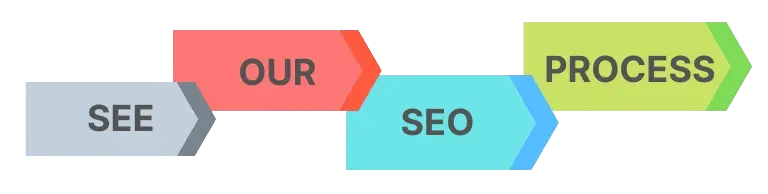
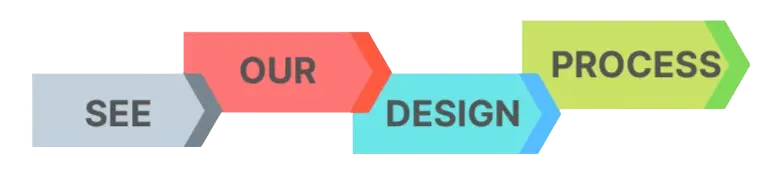
update

Changed region(s): [[0.0312, 0.1143, 1.0, 0.8857]]

diff --git a/index.html b/index.html
@@ -8,7 +8,7 @@
   function gtag(){dataLayer.push(arguments);}
   gtag('js', new Date());
 
-  gtag('config', 'G-XBBE1XGXXQ');
+  gtag('config', 'G-TZRSZN48YF');
 </script>
     <meta charset='utf-8'>
     <meta name='viewport' content='width=device-width, initial-scale=1, maximum-scale=2.5'>
@@ -22,7 +22,7 @@
     <link rel="preload" href="asset/images/pattern-back-dark.webp" as="image" type="image/webp">
     <link rel="preload" href="asset/images/tag.webp" as="image" type="image/webp">
     <link rel="stylesheet" type="text/css" href="asset/index.css">
-    <title>SEO solution</title>
+    <title>Automation solution</title>
   </head>
   <body>
     <header>
@@ -60,7 +60,7 @@
            <svg xmlns="http://www.w3.org/2000/svg" width="30" height="30" fill="grey" class="bi bi-diagram-3-fill" viewBox="0 0 16 16">
              <path fill-rule="evenodd" d="M6 3.5A1.5 1.5 0 0 1 7.5 2h1A1.5 1.5 0 0 1 10 3.5v1A1.5 1.5 0 0 1 8.5 6v1H14a.5.5 0 0 1 .5.5v1a.5.5 0 0 1-1 0V8h-5v.5a.5.5 0 0 1-1 0V8h-5v.5a.5.5 0 0 1-1 0v-1A.5.5 0 0 1 2 7h5.5V6A1.5 1.5 0 0 1 6 4.5zm-6 8A1.5 1.5 0 0 1 1.5 10h1A1.5 1.5 0 0 1 4 11.5v1A1.5 1.5 0 0 1 2.5 14h-1A1.5 1.5 0 0 1 0 12.5zm6 0A1.5 1.5 0 0 1 7.5 10h1a1.5 1.5 0 0 1 1.5 1.5v1A1.5 1.5 0 0 1 8.5 14h-1A1.5 1.5 0 0 1 6 12.5zm6 0a1.5 1.5 0 0 1 1.5-1.5h1a1.5 1.5 0 0 1 1.5 1.5v1a1.5 1.5 0 0 1-1.5 1.5h-1a1.5 1.5 0 0 1-1.5-1.5z"/>
            </svg>                    
-           <span class="link-text"> Our SEO Process </span>
+           <span class="link-text"> Our Design Process </span>
           </a>
           <a href="https://docs.google.com/forms/d/e/1FAIpQLSdrn86eggpVSwn5MV3Kk9Lzuq3xdfX2R49CrZeNwU_V7ceE2A/viewform?usp=sf_link">
             <svg xmlns="http://www.w3.org/2000/svg" width="30" height="30" fill="grey" class="bi bi-bag-dash-fill" viewBox="0 0 16 16">
@@ -85,7 +85,7 @@
     
     <div class="text-center pattern-back">
       <h3> 
-       <p class="tailored"> Tailored <span class="service">SEO</span> for long-term success </p> <br>
+       <p class="tailored"> Tailored <span class="service">Automation</span> for long-term success </p> <br>
        <img class="tag" src="asset/images/tag.webp" />
       </h3>
       <div class="action">
@@ -98,7 +98,7 @@
           <path d="M8 2a5.53 5.53 0 0 0-3.594 1.342c-.766.66-1.321 1.52-1.464 2.383C1.266 6.095 0 7.555 0 9.318 0 11.366 1.708 13 3.781 13h8.906C14.502 13 16 11.57 16 9.773c0-1.636-1.242-2.969-2.834-3.194C12.923 3.999 10.69 2 8 2m2.354 4.854-3 3a.5.5 0 0 1-.708 0l-1.5-1.5a.5.5 0 1 1 .708-.708L7 8.793l2.646-2.647a.5.5 0 0 1 .708.708"/>
          </svg>
          <span class="just">
-         The right SEO solution for your business.
+         The right Automation solution for your business.
          </span>
        </span>
       </div>
@@ -129,7 +129,7 @@
           <img src="asset/images/blue-process.webp" class="blue-img" />
         </div>
         <a href="pages/process.html">
-         see our SEO process
+         see our Automation process
          <svg xmlns="http://www.w3.org/2000/svg" width="28" height="28" fill="currentColor" class="bi bi-box-arrow-up-right" viewBox="0 0 16 16">
           <path fill-rule="evenodd" d="M8.636 3.5a.5.5 0 0 0-.5-.5H1.5A1.5 1.5 0 0 0 0 4.5v10A1.5 1.5 0 0 0 1.5 16h10a1.5 1.5 0 0 0 1.5-1.5V7.864a.5.5 0 0 0-1 0V14.5a.5.5 0 0 1-.5.5h-10a.5.5 0 0 1-.5-.5v-10a.5.5 0 0 1 .5-.5h6.636a.5.5 0 0 0 .5-.5" />
           <path fill-rule="evenodd" d="M16 .5a.5.5 0 0 0-.5-.5h-5a.5.5 0 0 0 0 1h3.793L6.146 9.146a.5.5 0 1 0 .708.708L15 1.707V5.5a.5.5 0 0 0 1 0z" />
@@ -165,7 +165,7 @@
             <path fill-rule="evenodd" d="M8.636 3.5a.5.5 0 0 0-.5-.5H1.5A1.5 1.5 0 0 0 0 4.5v10A1.5 1.5 0 0 0 1.5 16h10a1.5 1.5 0 0 0 1.5-1.5V7.864a.5.5 0 0 0-1 0V14.5a.5.5 0 0 1-.5.5h-10a.5.5 0 0 1-.5-.5v-10a.5.5 0 0 1 .5-.5h6.636a.5.5 0 0 0 .5-.5" />
             <path fill-rule="evenodd" d="M16 .5a.5.5 0 0 0-.5-.5h-5a.5.5 0 0 0 0 1h3.793L6.146 9.146a.5.5 0 1 0 .708.708L15 1.707V5.5a.5.5 0 0 0 1 0z" />
           </svg>
-          see our SEO process
+          see our Automation process
         </a>
       </div>
       
@@ -193,7 +193,7 @@
           <img src="asset/images/blue-process.webp" class="blue-img" />
         </div>
         <a href="pages/process.html">
-          see our SEO process
+          see our Automation process
           <svg xmlns="http://www.w3.org/2000/svg" width="28" height="28" fill="currentColor" class="bi bi-box-arrow-up-right" viewBox="0 0 16 16">
             <path fill-rule="evenodd" d="M8.636 3.5a.5.5 0 0 0-.5-.5H1.5A1.5 1.5 0 0 0 0 4.5v10A1.5 1.5 0 0 0 1.5 16h10a1.5 1.5 0 0 0 1.5-1.5V7.864a.5.5 0 0 0-1 0V14.5a.5.5 0 0 1-.5.5h-10a.5.5 0 0 1-.5-.5v-10a.5.5 0 0 1 .5-.5h6.636a.5.5 0 0 0 .5-.5" />
             <path fill-rule="evenodd" d="M16 .5a.5.5 0 0 0-.5-.5h-5a.5.5 0 0 0 0 1h3.793L6.146 9.146a.5.5 0 1 0 .708.708L15 1.707V5.5a.5.5 0 0 0 1 0z" />
@@ -229,7 +229,7 @@
             <path fill-rule="evenodd" d="M8.636 3.5a.5.5 0 0 0-.5-.5H1.5A1.5 1.5 0 0 0 0 4.5v10A1.5 1.5 0 0 0 1.5 16h10a1.5 1.5 0 0 0 1.5-1.5V7.864a.5.5 0 0 0-1 0V14.5a.5.5 0 0 1-.5.5h-10a.5.5 0 0 1-.5-.5v-10a.5.5 0 0 1 .5-.5h6.636a.5.5 0 0 0 .5-.5" />
             <path fill-rule="evenodd" d="M16 .5a.5.5 0 0 0-.5-.5h-5a.5.5 0 0 0 0 1h3.793L6.146 9.146a.5.5 0 1 0 .708.708L15 1.707V5.5a.5.5 0 0 0 1 0z" />
           </svg>
-          see our SEO process
+          see our Automation process
         </a>
       </div>
       
@@ -256,7 +256,7 @@
        <div class="col-12 col-md-6 row justify-content-center question-cont text-center align-items-center"> 
          <div class="col question">
            <h4>
-             Why Choose Us for Your SEO Project
+             Why Choose Us for Your Automation Project
            </h4>
            <ul>
              <li class="why"> 
@@ -275,16 +275,16 @@
                </svg>
                 Tailored Strategies
               </b> <br/>
-              <span>Our SEO plans are customized to meet the specific needs and goals of your business.</span>
+              <span>Our Automation plans are customized to meet the specific needs and goals of your business.</span>
              </li>
              <li class="why"> 
               <b>
                 <svg xmlns="http://www.w3.org/2000/svg" width="22" height="22" fill="#2E7D32" class="bi bi-check-square-fill" viewBox="0 0 16 16">
                  <path d="M2 0a2 2 0 0 0-2 2v12a2 2 0 0 0 2 2h12a2 2 0 0 0 2-2V2a2 2 0 0 0-2-2zm10.03 4.97a.75.75 0 0 1 .011 1.05l-3.992 4.99a.75.75 0 0 1-1.08.02L4.324 8.384a.75.75 0 1 1 1.06-1.06l2.094 2.093 3.473-4.425a.75.75 0 0 1 1.08-.022z"/>
                </svg>
-                White-Labeled SEO 
+                White-Labeled Automation 
               </b> <br/>
-              <span>Our white-label SEO process delivers enduring, long-term SEO solutions.</span>
+              <span>Our white-label Automation process delivers enduring, long-term Automation solutions.</span>
              </li>
              <li class="why"> 
               <b>
@@ -310,7 +310,7 @@
        <div class="col-12 col-md-6 row justify-content-center question-cont text-center align-items-center"> 
          <div class="col question">
            <h4>
-             Why you need SEO for your business
+             Why you need Automation for your business
            </h4>
            <ul>
              <li class="why"> 
@@ -320,7 +320,7 @@
                </svg>
                 Increased Visibility
               </b> <br/>
-              <span>SEO helps your business appear in search results, making it easier for potential customers to find you.</span>
+              <span>Automation helps your business appear in search results, making it easier for potential customers to find you.</span>
              </li>
              <li class="why"> 
               <b>
@@ -347,7 +347,7 @@
                </svg>
                 Higher ROI
               </b> <br/>
-              <span>SEO is a cost-effective way to generate leads and drive sales compared to other marketing strategies.</span>
+              <span>Automation is a cost-effective way to generate leads and drive sales compared to other marketing strategies.</span>
              </li>
              <li class="why"> 
               <b>

diff --git a/pages/pricing.html b/pages/pricing.html
@@ -8,7 +8,7 @@
   function gtag(){dataLayer.push(arguments);}
   gtag('js', new Date());
 
-  gtag('config', 'G-XBBE1XGXXQ');
+  gtag('config', 'G-TZRSZN48YF');
 </script>
     <meta charset='utf-8'>
     <meta name='viewport' content='width=device-width, initial-scale=1, maximum-scale=2.5'>
@@ -20,7 +20,7 @@
     <link rel="preload" href="../asset/images/logo-icon.webp" as="image" type="image/webp">
     <link rel="preload" href="../asset/images/line-process.webp" as="image" type="image/webp">
     <link rel="stylesheet" type="text/css" href="../asset/pricing.css">
-    <title>SEO pricing</title>
+    <title>Automation pricing</title>
   </head>
   <body>
     <header>
@@ -58,7 +58,7 @@
            <svg xmlns="http://www.w3.org/2000/svg" width="30" height="30" fill="grey" class="bi bi-diagram-3-fill" viewBox="0 0 16 16">
              <path fill-rule="evenodd" d="M6 3.5A1.5 1.5 0 0 1 7.5 2h1A1.5 1.5 0 0 1 10 3.5v1A1.5 1.5 0 0 1 8.5 6v1H14a.5.5 0 0 1 .5.5v1a.5.5 0 0 1-1 0V8h-5v.5a.5.5 0 0 1-1 0V8h-5v.5a.5.5 0 0 1-1 0v-1A.5.5 0 0 1 2 7h5.5V6A1.5 1.5 0 0 1 6 4.5zm-6 8A1.5 1.5 0 0 1 1.5 10h1A1.5 1.5 0 0 1 4 11.5v1A1.5 1.5 0 0 1 2.5 14h-1A1.5 1.5 0 0 1 0 12.5zm6 0A1.5 1.5 0 0 1 7.5 10h1a1.5 1.5 0 0 1 1.5 1.5v1A1.5 1.5 0 0 1 8.5 14h-1A1.5 1.5 0 0 1 6 12.5zm6 0a1.5 1.5 0 0 1 1.5-1.5h1a1.5 1.5 0 0 1 1.5 1.5v1a1.5 1.5 0 0 1-1.5 1.5h-1a1.5 1.5 0 0 1-1.5-1.5z"/>
            </svg>                    
-           <span class="link-text"> Our SEO Process </span>
+           <span class="link-text"> Our Design Process </span>
           </a>
           <a href="https://docs.google.com/forms/d/e/1FAIpQLSdrn86eggpVSwn5MV3Kk9Lzuq3xdfX2R49CrZeNwU_V7ceE2A/viewform?usp=sf_link">
             <svg xmlns="http://www.w3.org/2000/svg" width="30" height="30" fill="grey" class="bi bi-bag-dash-fill" viewBox="0 0 16 16">

diff --git a/pages/process.html b/pages/process.html
@@ -8,7 +8,7 @@
   function gtag(){dataLayer.push(arguments);}
   gtag('js', new Date());
 
-  gtag('config', 'G-XBBE1XGXXQ');
+  gtag('config', 'G-TZRSZN48YF');
 </script>
     <meta charset='utf-8'>
     <meta name='viewport' content='width=device-width, initial-scale=1, maximum-scale=2.5'>
@@ -20,7 +20,7 @@
     <link rel="icon" href="../asset/images/favicon.webp" type="image/webp">    
     <link rel="preload" href="../asset/images/logo-icon.webp" as="image" type="image/webp">    
     <link rel="stylesheet" type="text/css" href="../asset/process.css">
-    <title>SEO process</title>
+    <title>Automation process</title>
   </head>
   <body>
    <header>
@@ -58,7 +58,7 @@
          <svg xmlns="http://www.w3.org/2000/svg" width="30" height="30" fill="grey" class="bi bi-diagram-3-fill" viewBox="0 0 16 16">
            <path fill-rule="evenodd" d="M6 3.5A1.5 1.5 0 0 1 7.5 2h1A1.5 1.5 0 0 1 10 3.5v1A1.5 1.5 0 0 1 8.5 6v1H14a.5.5 0 0 1 .5.5v1a.5.5 0 0 1-1 0V8h-5v.5a.5.5 0 0 1-1 0V8h-5v.5a.5.5 0 0 1-1 0v-1A.5.5 0 0 1 2 7h5.5V6A1.5 1.5 0 0 1 6 4.5zm-6 8A1.5 1.5 0 0 1 1.5 10h1A1.5 1.5 0 0 1 4 11.5v1A1.5 1.5 0 0 1 2.5 14h-1A1.5 1.5 0 0 1 0 12.5zm6 0A1.5 1.5 0 0 1 7.5 10h1a1.5 1.5 0 0 1 1.5 1.5v1A1.5 1.5 0 0 1 8.5 14h-1A1.5 1.5 0 0 1 6 12.5zm6 0a1.5 1.5 0 0 1 1.5-1.5h1a1.5 1.5 0 0 1 1.5 1.5v1a1.5 1.5 0 0 1-1.5 1.5h-1a1.5 1.5 0 0 1-1.5-1.5z"/>
          </svg>                    
-         <span class="link-text"> Our SEO Process </span>
+         <span class="link-text"> Our Design Process </span>
         </a>
         <a href="https://docs.google.com/forms/d/e/1FAIpQLSdrn86eggpVSwn5MV3Kk9Lzuq3xdfX2R49CrZeNwU_V7ceE2A/viewform?usp=sf_link">
           <svg xmlns="http://www.w3.org/2000/svg" width="30" height="30" fill="grey" class="bi bi-bag-dash-fill" viewBox="0 0 16 16">
